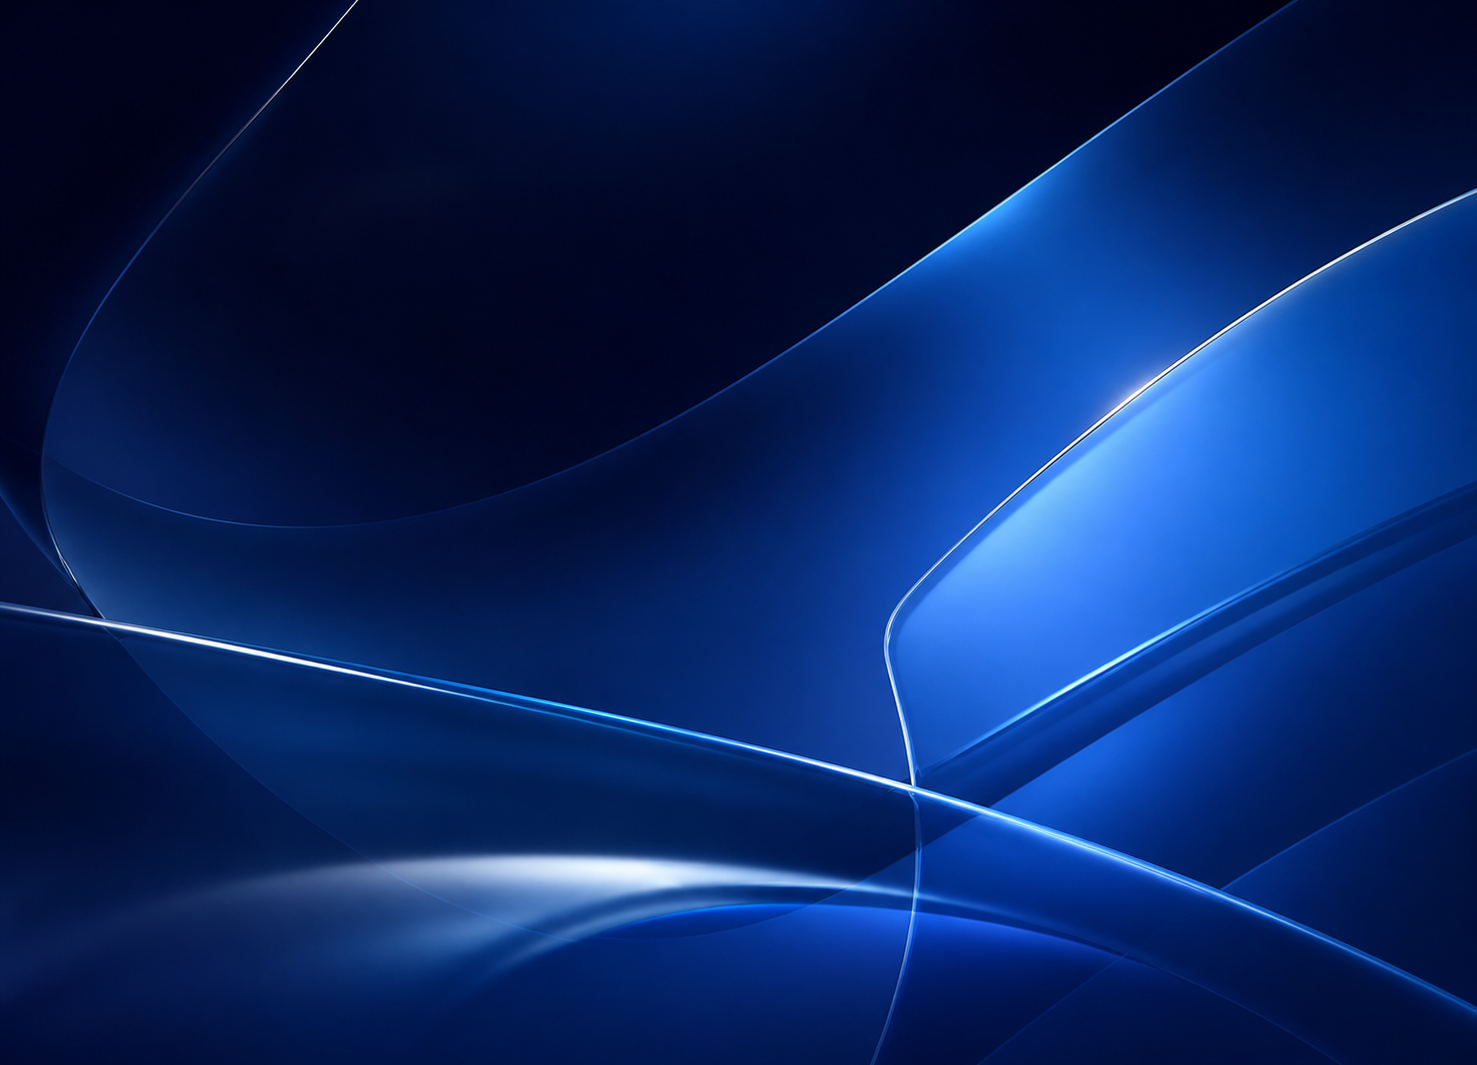
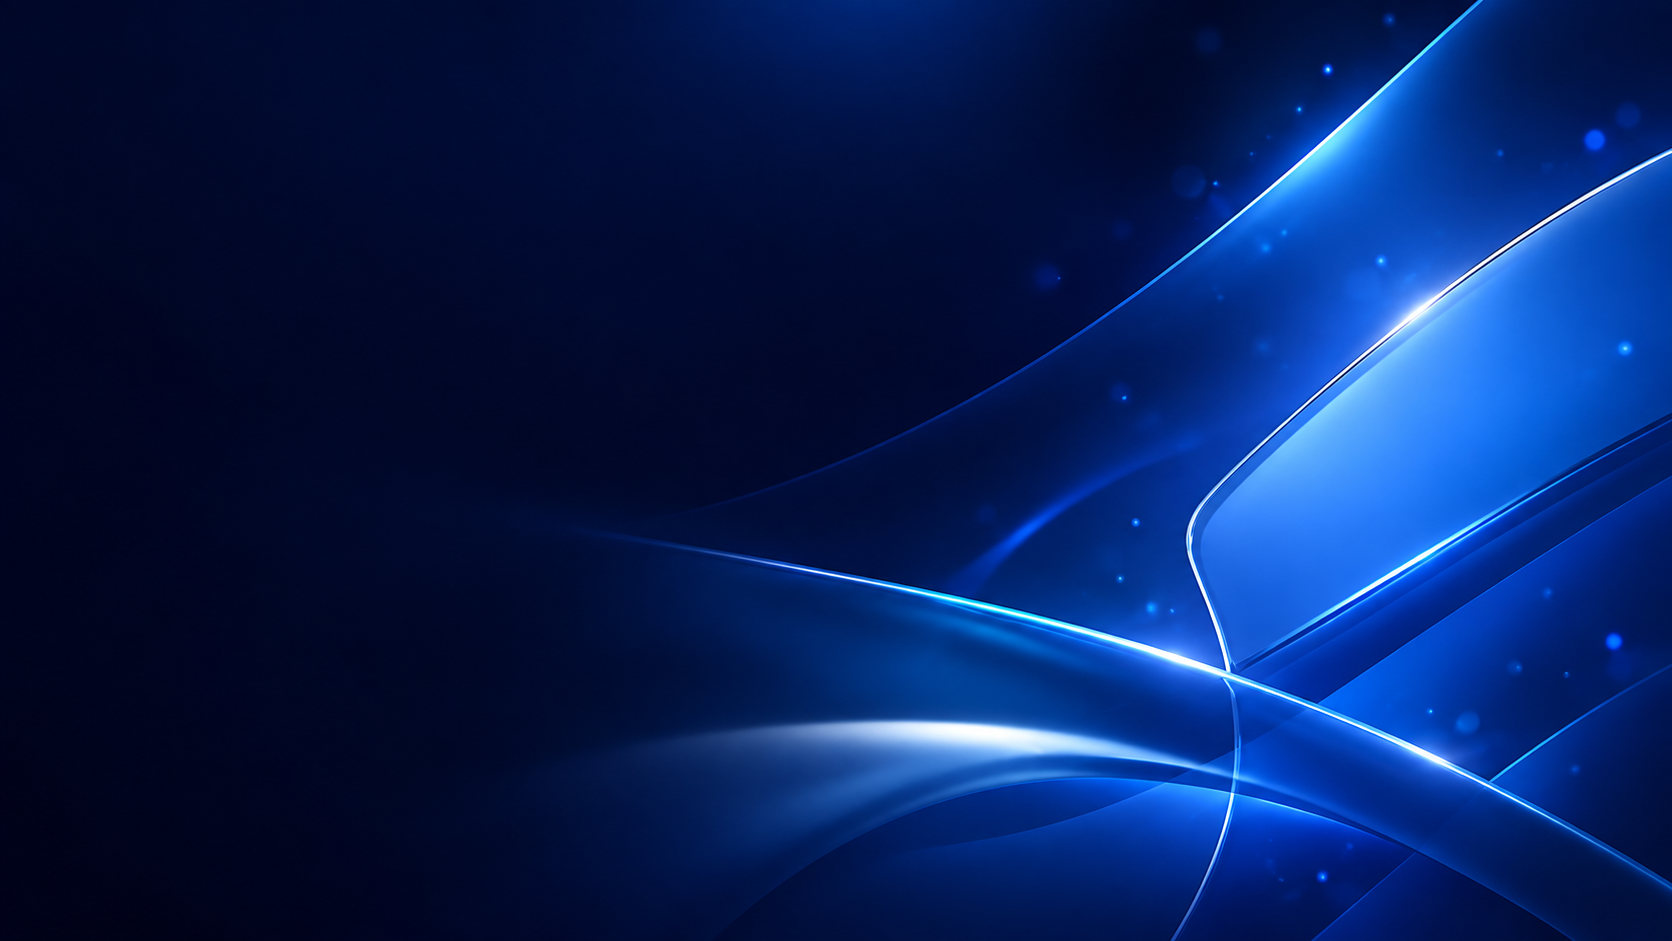
fix(customer): restore djiwa pay card artwork

diff --git a/apps/customer/src/routes/$username/saldo.lazy.tsx b/apps/customer/src/routes/$username/saldo.lazy.tsx
@@ -199,6 +199,9 @@ function SaldoPage() {
           animate={reduceMotion ? undefined : { opacity: 1, y: 0 }}
           transition={{ duration: 0.28, ease: [0.32, 0.72, 0, 1] }}
         >
+          <img src="/assets/djiwa-pay-abstract-3d.png" alt="" aria-hidden="true" className="pointer-events-none absolute inset-0 h-full w-full object-cover opacity-[0.48] mix-blend-screen" />
+          <div className="pointer-events-none absolute inset-0 bg-[linear-gradient(135deg,rgba(7,20,61,0.42),rgba(16,61,166,0.12)_58%,rgba(91,141,239,0.08))]" />
+          {!reduceMotion ? <motion.div aria-hidden="true" className="pointer-events-none absolute -inset-y-12 left-[-35%] w-1/3 rotate-[20deg] bg-gradient-to-r from-transparent via-white/35 to-transparent blur-md" animate={{ x: [0, 360, 720] }} transition={{ duration: 4.8, repeat: Infinity, repeatDelay: 2.4, ease: "easeInOut" }} /> : null}
           <div className="relative flex h-full min-h-0 flex-col p-2.5 sm:min-h-[190px] sm:p-3">
             <div className="flex items-center justify-between"><div className="flex items-center gap-2"><div className="flex h-8 w-8 items-center justify-center rounded-xl bg-white/15 backdrop-blur-sm sm:h-9 sm:w-9"><Wallet className="h-4 w-4" /></div><div><p className="text-[9px] font-bold uppercase tracking-[0.18em] text-blue-100 sm:text-[10px]">Djiwa Pay</p><p className="text-[11px] font-semibold text-white/75 sm:text-xs">Digital wallet</p></div></div><span className="rounded-full border border-white/25 bg-white/12 px-2.5 py-1 text-[9px] font-bold text-blue-50 backdrop-blur-sm sm:text-[10px]">AKTIF</span></div>
             <div className="mt-auto flex items-end justify-between gap-1.5 pt-2"><div className="min-w-0"><p className="text-[10px] font-semibold text-blue-100 sm:text-[11px]">Saldo tersedia</p><motion.p className="mt-0.5 truncate font-display text-[23px] font-black tracking-[-0.04em] sm:text-[28px]" initial={reduceMotion ? false : { opacity: 0, scale: 0.96 }} animate={reduceMotion ? undefined : refreshing ? { opacity: [1, 0.55, 1], scale: [1, 1.045, 1] } : { opacity: 1, scale: 1 }} transition={refreshing ? { duration: 0.9, repeat: Infinity, ease: "easeInOut" } : { delay: 0.12, duration: 0.32, ease: [0.32, 0.72, 0, 1] }}>{showSensitiveData ? (refreshing ? scrambleBalance ?? currency(0) : currency(walletData?.available_balance ?? customer.walletBalance ?? 0)) : "••••••"}</motion.p></div><div className="flex shrink-0 gap-1.5"><button type="button" onClick={() => void handleRefreshWallet()} disabled={refreshing || authLoading || isLoading} aria-label="Perbarui saldo Djiwa Pay" aria-busy={refreshing} className="flex h-10 w-10 shrink-0 items-center justify-center rounded-full bg-white/12 text-blue-50 backdrop-blur-sm transition-all duration-200 hover:bg-white/20 active:scale-[.96] focus-visible:outline-none focus-visible:ring-2 focus-visible:ring-white/70 disabled:pointer-events-none disabled:opacity-60 sm:h-11 sm:w-11"><RefreshCw className={refreshing ? "h-4 w-4 animate-spin" : "h-4 w-4"} /></button><button type="button" onClick={() => setShowSensitiveData((visible) => !visible)} aria-label={showSensitiveData ? "Sembunyikan saldo dan User ID" : "Tampilkan saldo dan User ID"} className="flex h-10 w-10 shrink-0 items-center justify-center rounded-full bg-white/12 text-blue-50 backdrop-blur-sm transition-all duration-200 hover:bg-white/20 active:scale-[.96] focus-visible:outline-none focus-visible:ring-2 focus-visible:ring-white/70 sm:h-11 sm:w-11">{showSensitiveData ? <EyeOff className="h-4 w-4" /> : <Eye className="h-4 w-4" />}</button></div></div>
